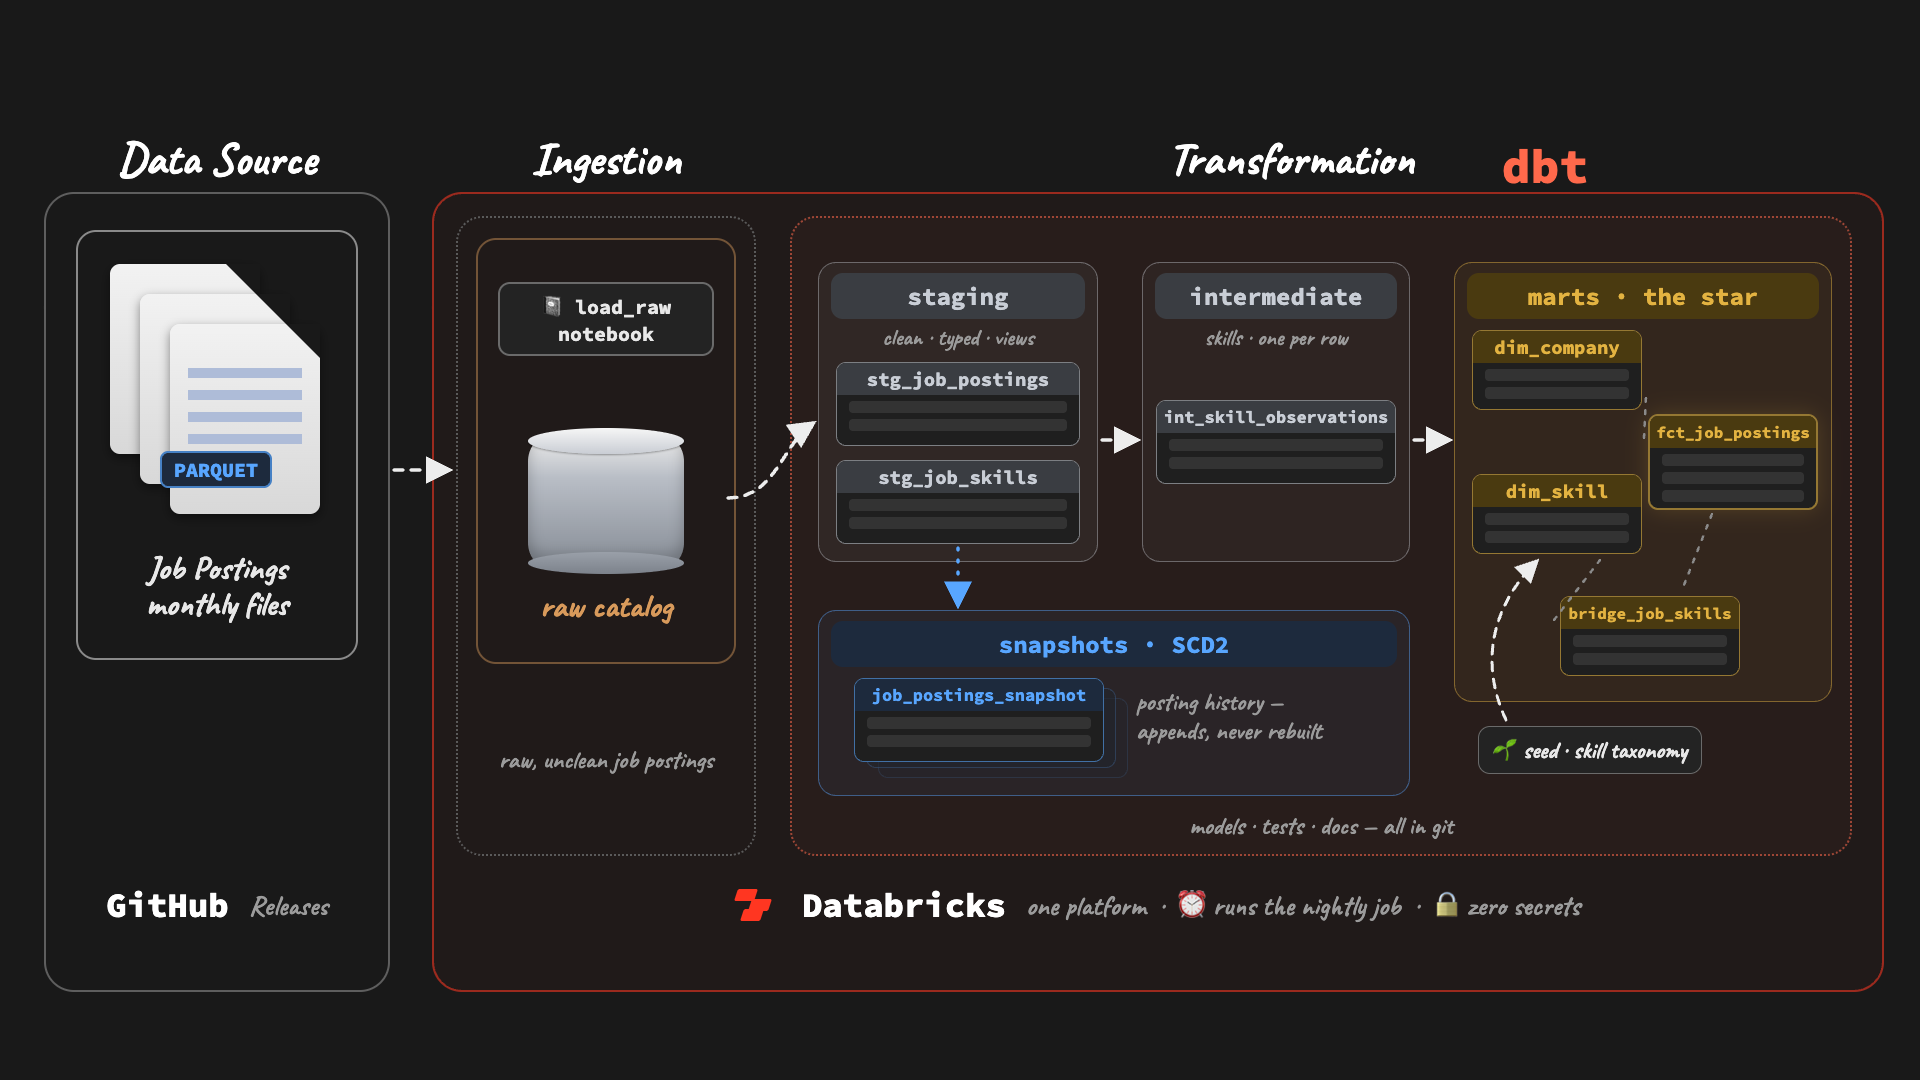
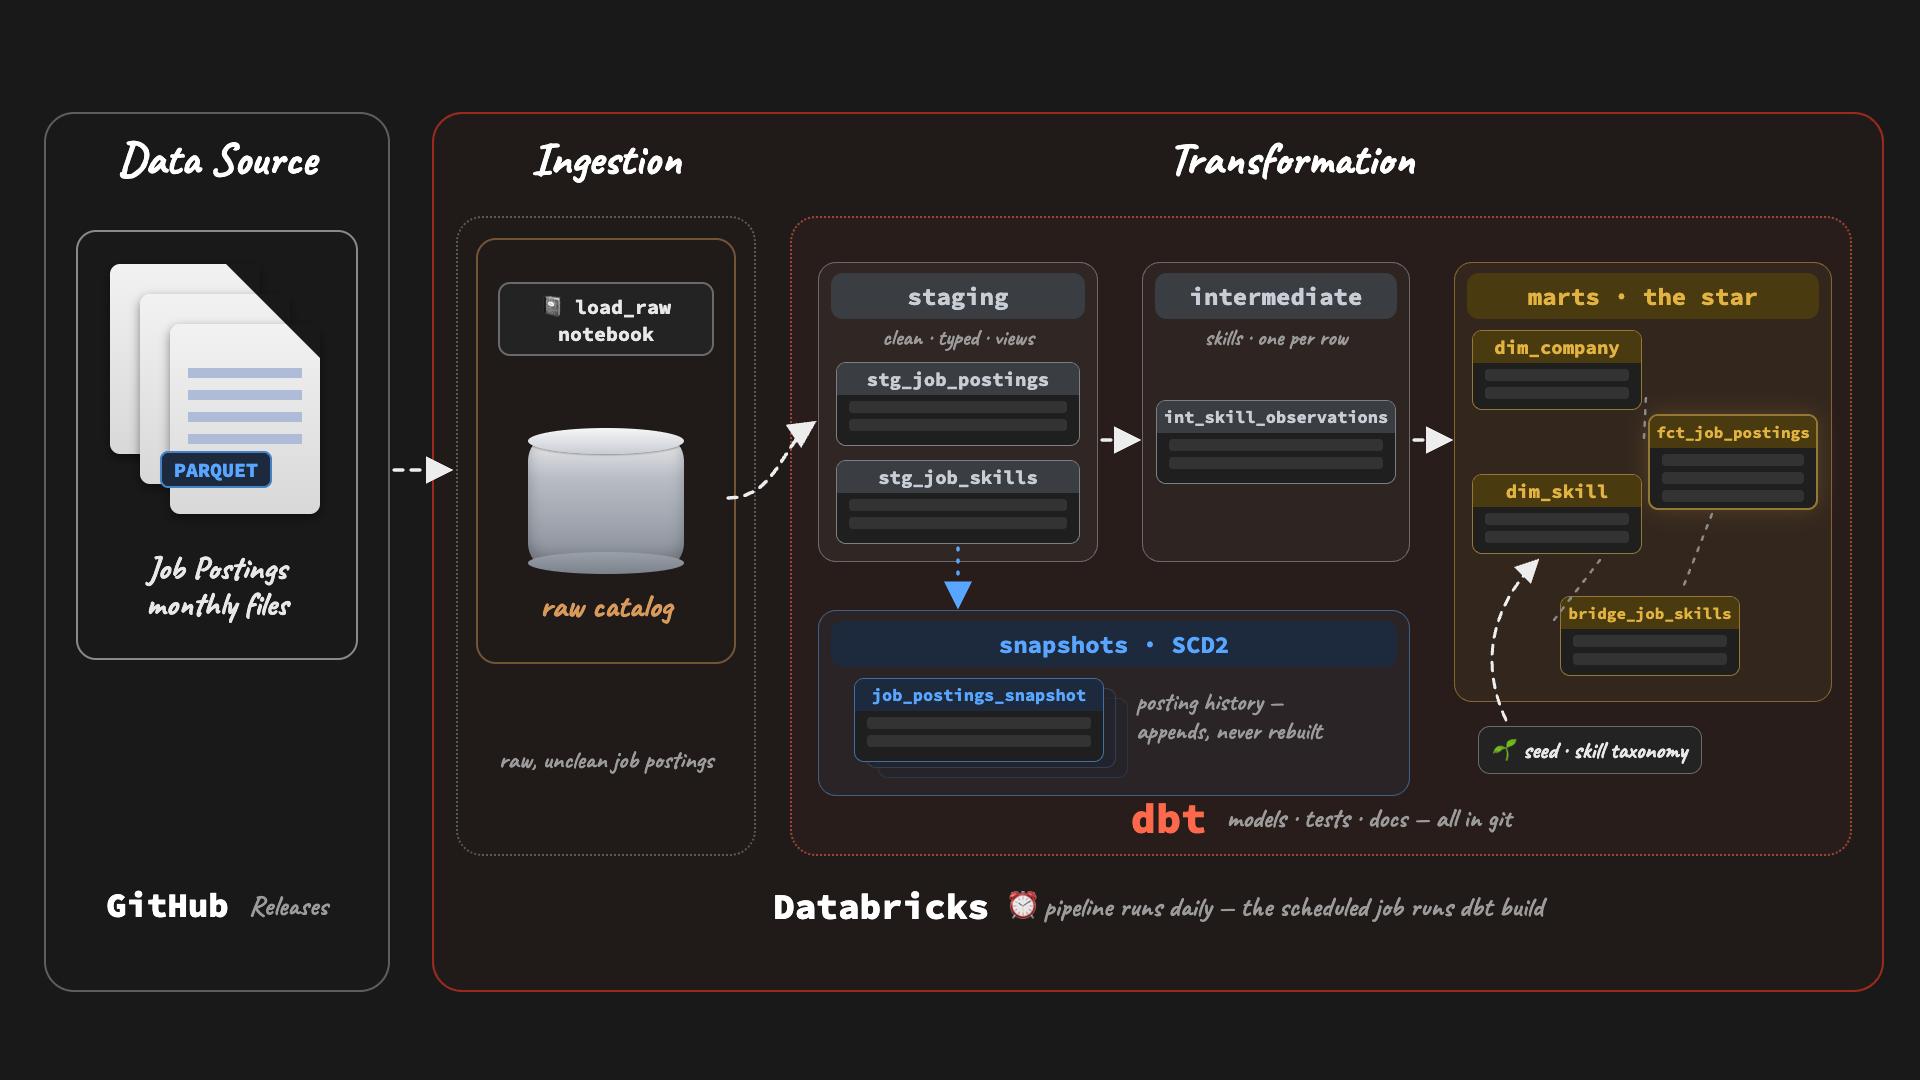
P2 pipeline v4 (Luke): dbt lockup to the BOTTOM of its box (mirrors Databricks-at-frame-bottom pattern); zone titles pulled INSIDE the Databricks frame; Databricks line = statement of fact ('pipeline runs daily — the scheduled job runs dbt build'); fake bricks glyph removed

Changed region(s): [[0.375, 0.825, 0.8125, 0.8556], [0.5938, 0.7333, 0.7812, 0.7944], [0.7812, 0.1222, 0.8438, 0.1833]]

diff --git a/resources/diagrams/4.02_p2_pipeline.html b/resources/diagrams/4.02_p2_pipeline.html
@@ -75,7 +75,7 @@
 
   <!-- ============ GITHUB FRAME : Data Source ============ -->
   <div class="ztitle" style="left:44px;top:130px;width:346px">Data Source</div>
-  <div class="frame" style="left:44px;top:192px;width:346px;height:800px;border:2.5px solid rgba(255,255,255,.3)"></div>
+  <div class="frame" style="left:44px;top:112px;width:346px;height:880px;border:2.5px solid rgba(255,255,255,.3)"></div>
   <div class="zinner" style="left:76px;top:230px;width:282px;height:430px"></div>
   <div class="pfile" style="left:110px;top:264px"></div>
   <div class="pfile" style="left:140px;top:294px"></div>
@@ -87,7 +87,7 @@
   </div>
 
   <!-- ============ DATABRICKS FRAME : Ingestion + Transformation ============ -->
-  <div class="frame" style="left:432px;top:192px;width:1452px;height:800px;border:2.5px solid rgba(255,54,33,.55);background:rgba(255,54,33,.03)"></div>
+  <div class="frame" style="left:432px;top:112px;width:1452px;height:880px;border:2.5px solid rgba(255,54,33,.55);background:rgba(255,54,33,.03)"></div>
 
   <!-- zone: Ingestion -->
   <div class="ztitle" style="left:456px;top:130px;width:300px">Ingestion</div>
@@ -102,7 +102,6 @@
 
   <!-- zone: Transformation — dbt's box -->
   <div class="ztitle" style="left:790px;top:130px;width:1002px">Transformation</div>
-  <div class="dbtlogo" style="left:1490px;top:136px;width:110px;font-size:48px">dbt</div>
   <div class="zouter" style="left:790px;top:216px;width:1062px;height:640px;border-color:rgba(255,105,75,.55);background:rgba(255,105,75,.035)"></div>
 
   <!-- silver: staging -->
@@ -141,13 +140,15 @@
   <div class="tbl snap" style="left:854px;top:678px;width:250px;height:84px"><div class="name" style="font-size:17px">job_postings_snapshot</div><div class="r"></div><div class="r"></div></div>
   <div class="hcap" style="left:1136px;top:688px;width:260px;text-align:left">posting history —<br>appends, never rebuilt</div>
 
-  <div class="hcap" style="left:790px;top:812px;width:1062px">models · tests · docs — all in git</div>
+  <div class="lockrow" style="left:790px;top:792px;width:1062px">
+    <span style="font-family:var(--mono);font-weight:800;font-size:42px;color:var(--dbt)">dbt</span>
+    <span style="font-family:var(--hand);font-weight:600;font-size:27px;color:var(--muted)">models · tests · docs — all in git</span>
+  </div>
 
   <!-- Databricks lockup on the frame -->
   <div class="lockrow" style="left:432px;top:884px;width:1452px">
-    <span class="bricks"><b style="left:0;top:4px"></b><b style="left:14px;top:14px"></b><b style="left:6px;top:24px"></b></span>
-    <span style="font-family:var(--mono);font-weight:800;font-size:34px;color:#fff">Databricks</span>
-    <span style="font-family:var(--hand);font-weight:600;font-size:28px;color:var(--muted)">one platform &nbsp;·&nbsp; ⏰ runs the nightly job &nbsp;·&nbsp; 🔒 zero secrets</span>
+    <span style="font-family:var(--mono);font-weight:800;font-size:36px;color:#fff">Databricks</span>
+    <span style="font-family:var(--hand);font-weight:600;font-size:28px;color:var(--muted)">⏰ pipeline runs daily — the scheduled job runs dbt build</span>
   </div>
 
   <!-- ============ arrows ============ -->
